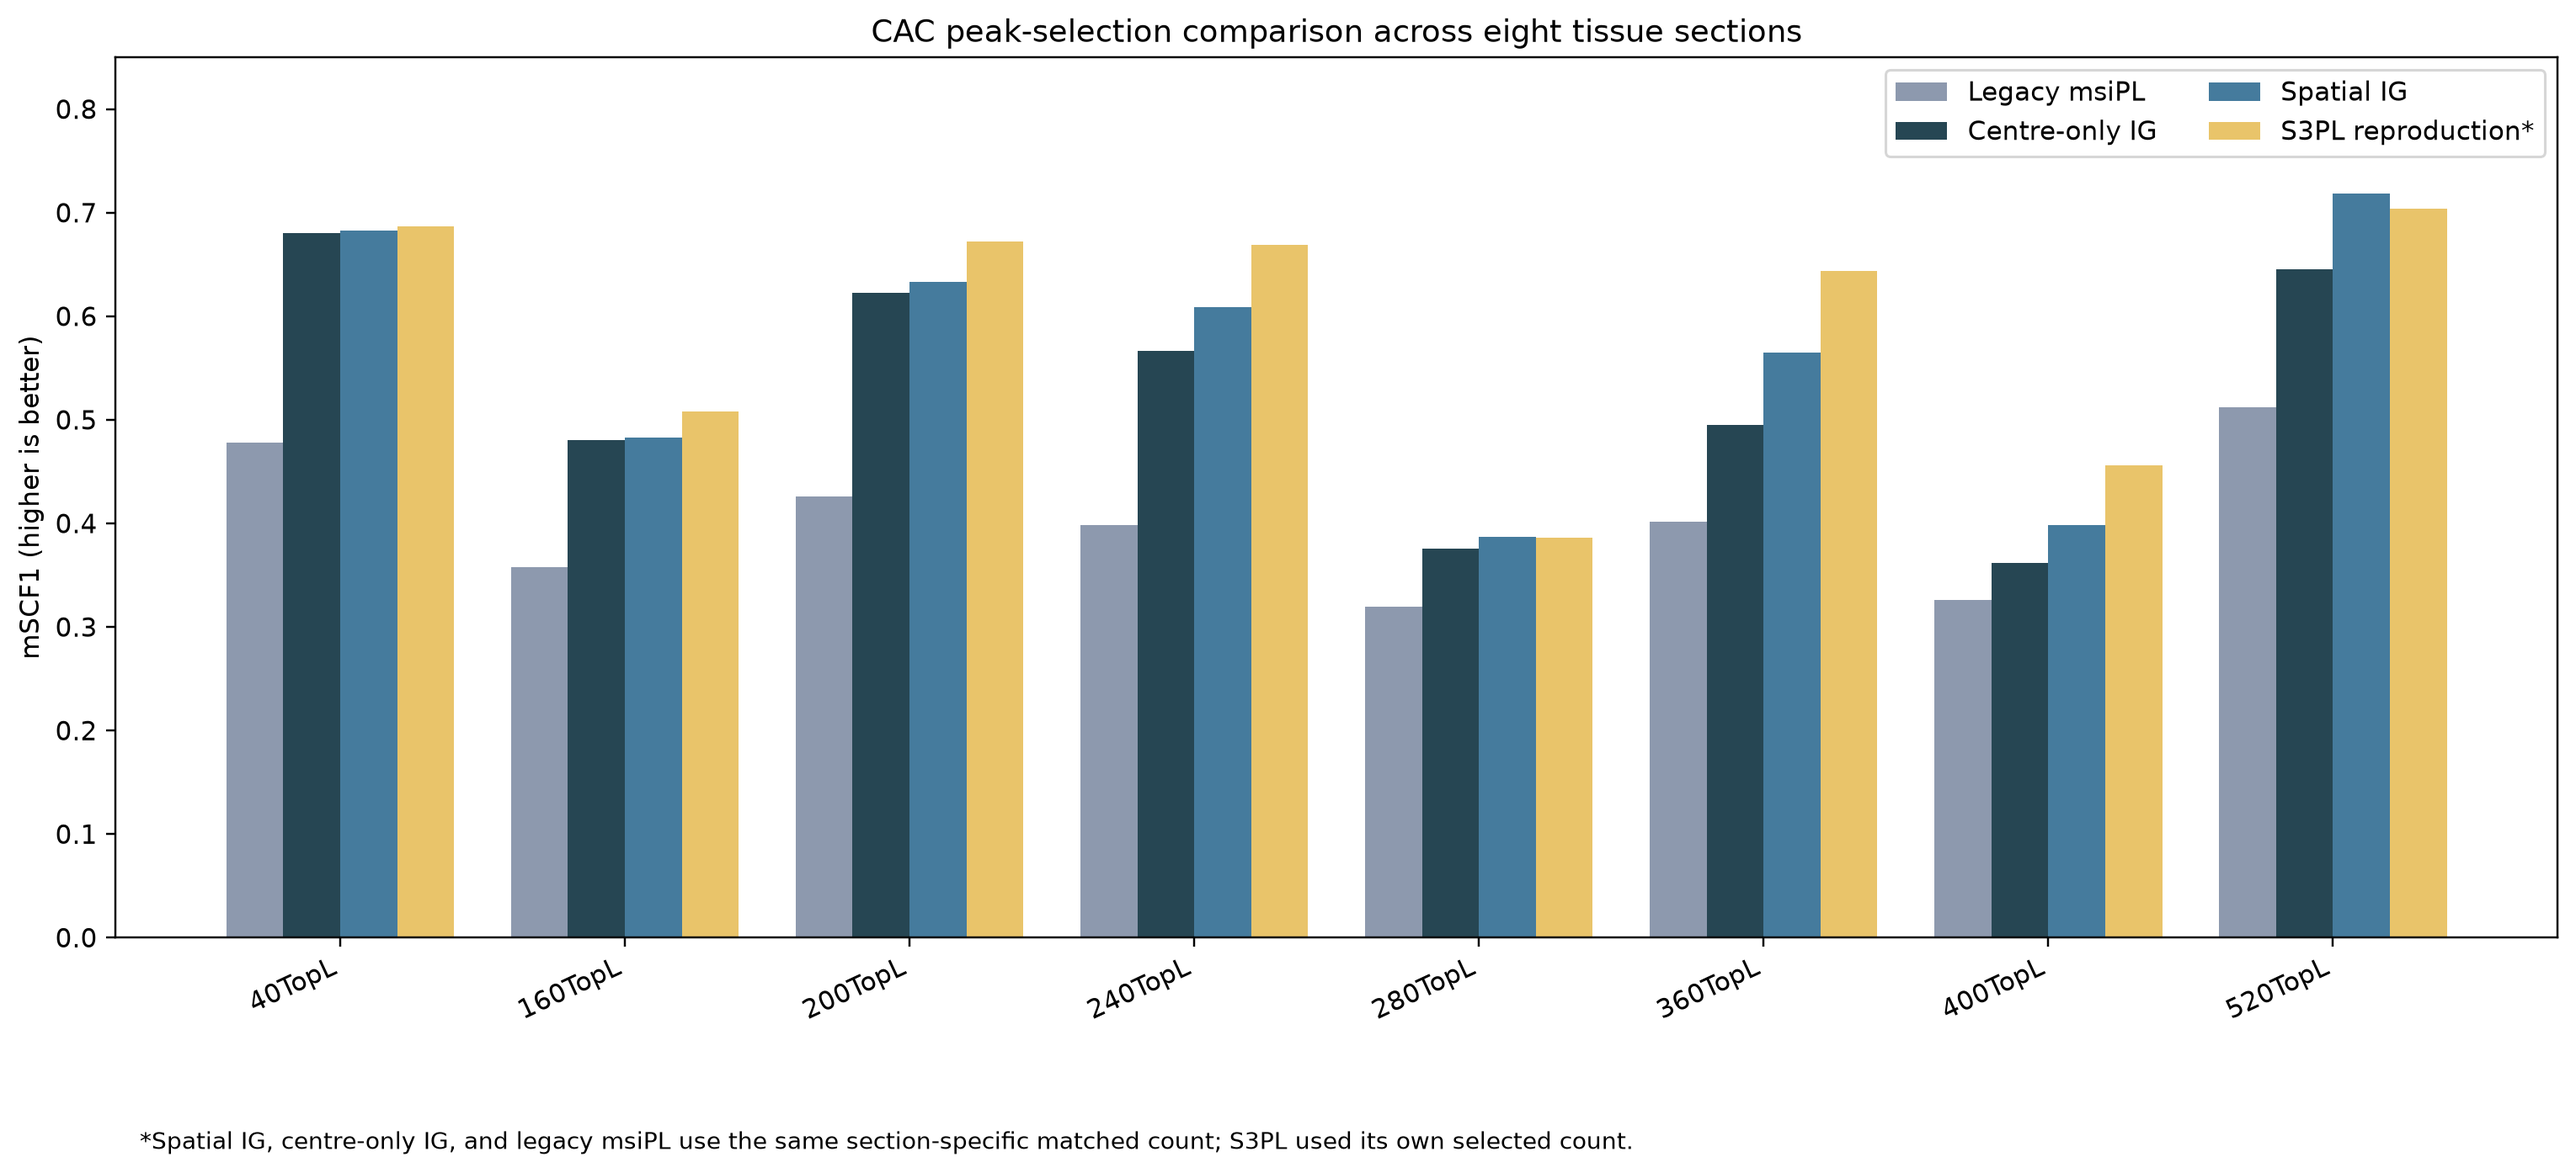
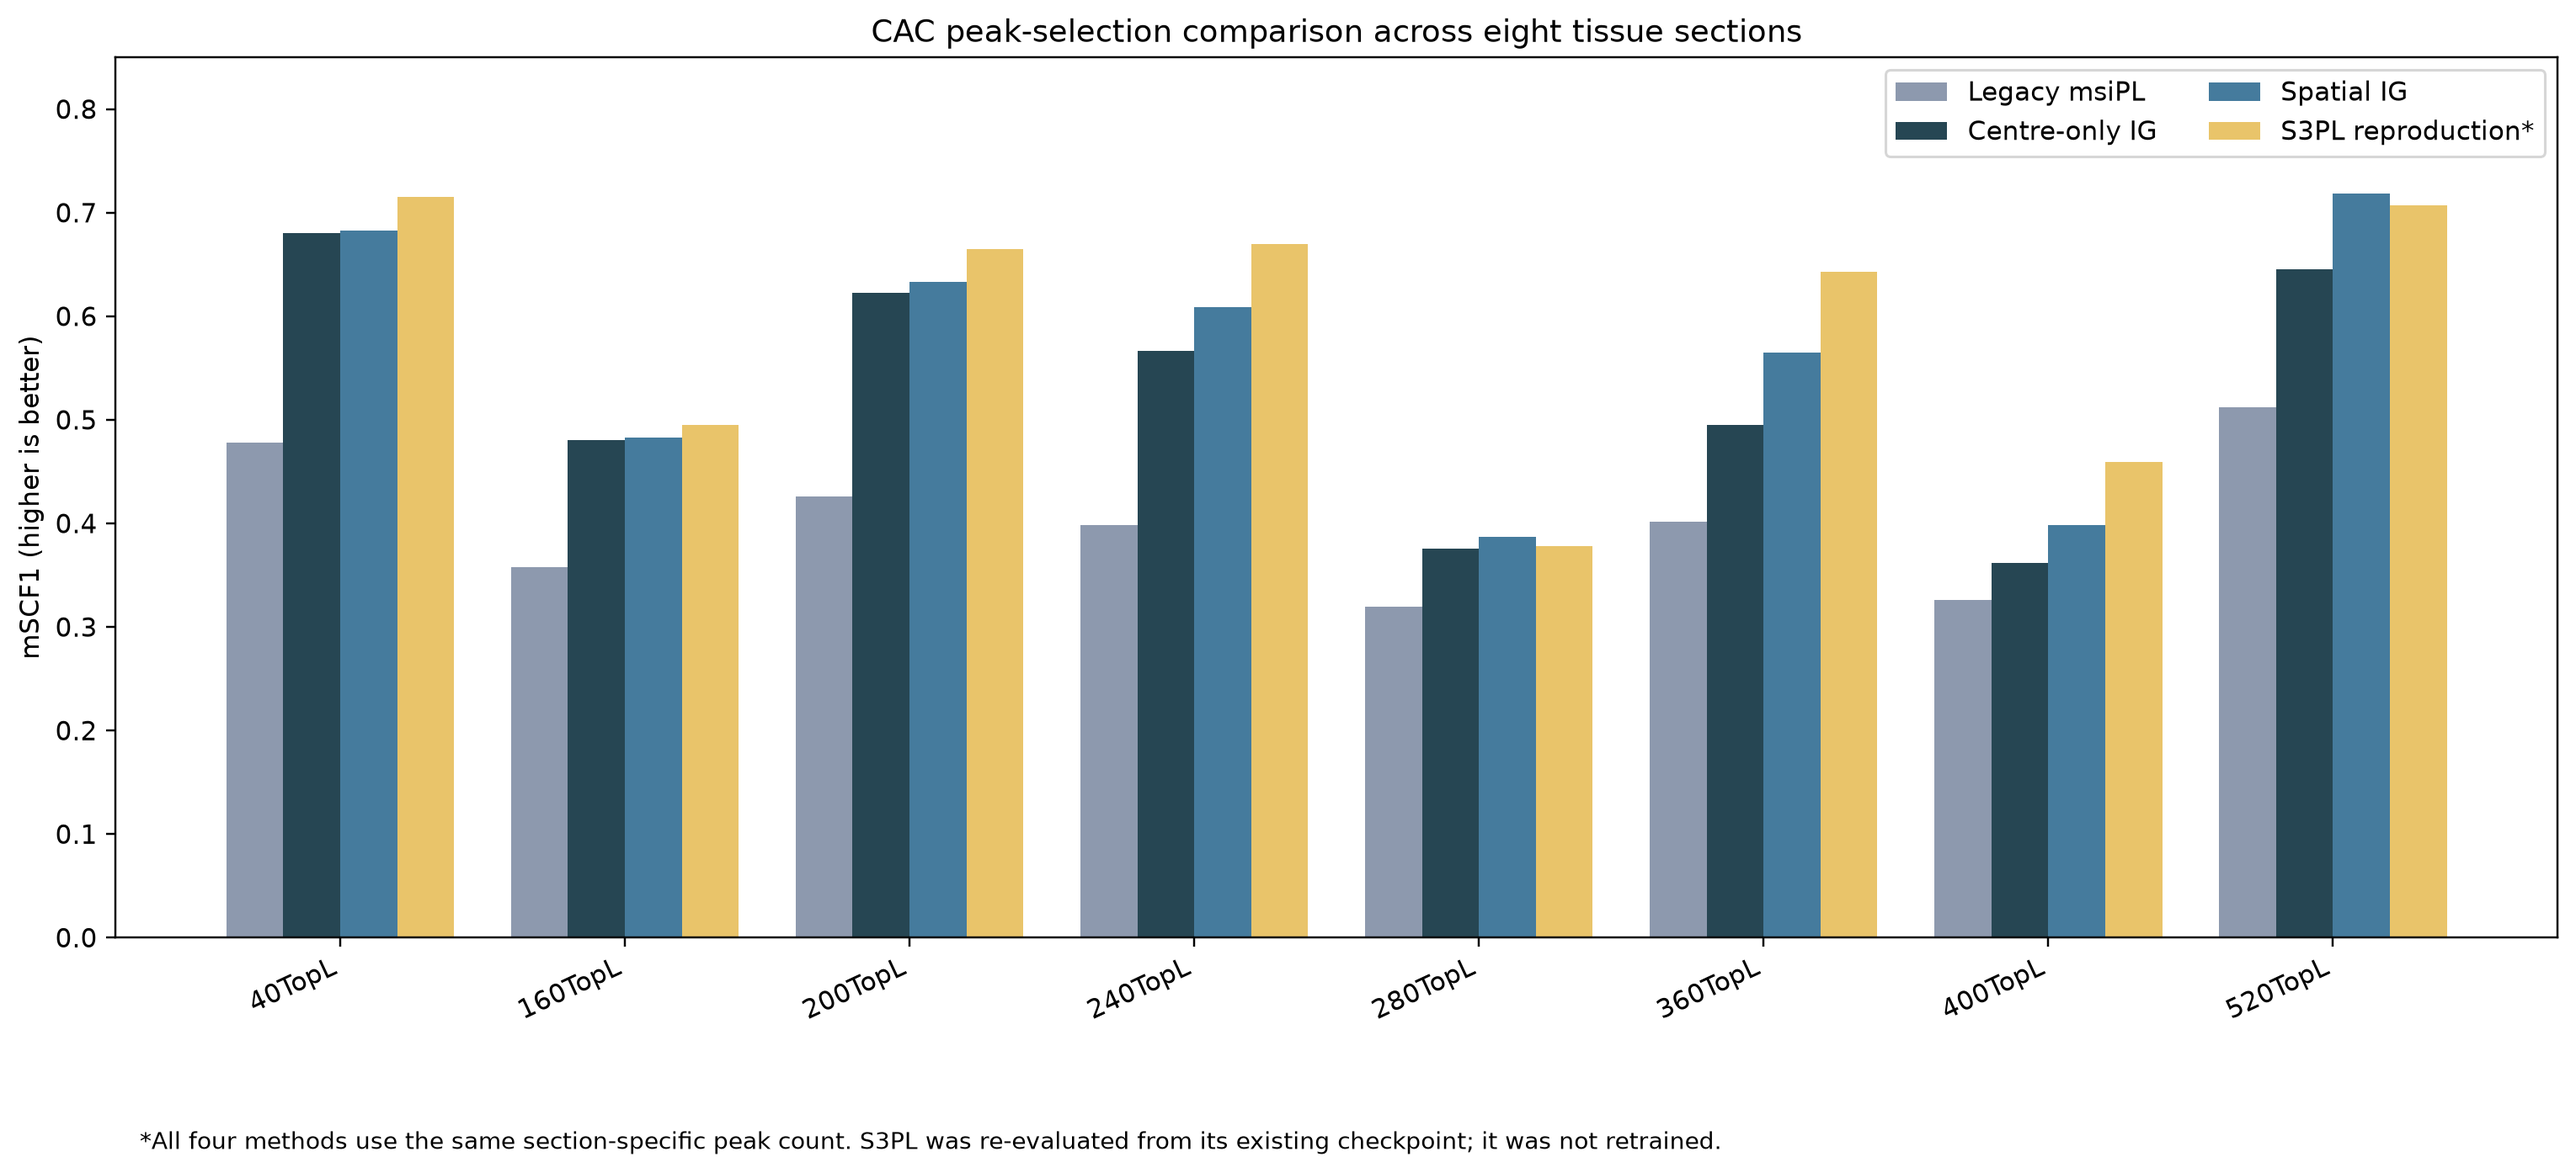
Update CAC validation results and summaries with matched peak counts and improved metrics

diff --git a/code/msi/results/publication/current_evidence/README.md b/code/msi/results/publication/current_evidence/README.md
@@ -1,8 +1,8 @@
 # Current publication results
 
 This package summarizes the completed seed-1 model campaign. Section-level
-variation is shown explicitly; training-seed stability remains a planned targeted
-analysis. All primary method comparisons below use matched section-specific peak
+variation is shown explicitly; targeted training-seed stability is reported in a
+separate artifact. All primary method comparisons below use matched section-specific peak
 budgets.
 
 ## Primary result
@@ -35,9 +35,10 @@ does not consistently improve GBM mSCF1, but improves all eight CAC sections.
 
 ## S3PL placement
 
-S3PL is retained as a contextual CAC benchmark, not included in the matched primary
-test. It used its own selected peak counts and a 10-epoch implementation protocol.
-Its mean CAC mSCF1 was 0.5908, versus 0.5595 for uniform-context IG.
+S3PL is retained as a separate CAC architecture benchmark. Its existing checkpoints
+were re-evaluated with the same section-specific peak counts as the primary methods;
+its training protocol remains the reproduced 10-epoch S3PL protocol.
+Its mean CAC mSCF1 was 0.5915, versus 0.5595 for uniform-context IG.
 
 ## Interpretation boundaries
 
@@ -45,8 +46,8 @@ Its mean CAC mSCF1 was 0.5908, versus 0.5595 for uniform-context IG.
   possible learned neighbourhood aggregators.
 - First-layer L2 is an intentionally simple weight-magnitude comparator, not a
   reimplementation of legacy LearnPeaks.
-- Full GBM and CAC validation currently uses one model-training seed. Attribution
-  sampling stability was tested separately; targeted model-seed repeats are pending.
+- Full GBM and CAC section-wide validation uses seed 1. Targeted GBM108-positive
+  training-seed repeats reached 100 epochs and are evaluated separately.
 - The eight sections within a collection are paired section-level units and are not
   asserted to be eight independent patients.
 
@@ -55,4 +56,4 @@ Its mean CAC mSCF1 was 0.5908, versus 0.5595 for uniform-context IG.
 1. `figure_1_primary_peak_quality.png` — matched primary comparison.
 2. `figure_2_context_effect_by_section.png` — section-level context contribution.
 3. `figure_3_explanation_ablation.png` — L2, legacy msiPL, and nonlinear IG.
-4. `figure_s1_s3pl_contextual_cac.png` — separate contextual S3PL comparison.
+4. `figure_s1_s3pl_contextual_cac.png` — matched-count S3PL architecture comparison.

diff --git a/code/msi/results/comparisons/spatial_msipl_cac_validation/summary.md b/code/msi/results/comparisons/spatial_msipl_cac_validation/summary.md
@@ -8,7 +8,7 @@ Peak selection used GMM Integrated Gradients with the same tuned legacy msiPL co
 - Spatial IG mean mSCF1: 0.5595
 - Centre-only IG mean mSCF1: 0.5285
 - Legacy msiPL mean mSCF1: 0.4024
-- S3PL reproduction mean mSCF1: 0.5908 (not peak-count matched)
+- S3PL reproduction mean mSCF1: 0.5915 (peak-count matched)
 - Spatial GMM mean balanced accuracy: 0.6690
 - Centre-only GMM mean balanced accuracy: 0.6845
 
@@ -16,7 +16,7 @@ Peak selection used GMM Integrated Gradients with the same tuned legacy msiPL co
 
 - spatial IG versus centre-only IG: mean difference +0.0310; wins 8/8; exact two-sided Wilcoxon p=0.007812.
 - spatial IG versus legacy msiPL: mean difference +0.1572; wins 8/8; exact two-sided Wilcoxon p=0.007812.
-- spatial IG versus S3PL reproduction: mean difference -0.0312; wins 2/8; exact two-sided Wilcoxon p=0.054688.
+- spatial IG versus S3PL reproduction: mean difference -0.0320; wins 2/8; exact two-sided Wilcoxon p=0.039062.
 - spatial versus centre-only GMM balanced accuracy: mean difference -0.0155; wins 2/8; exact two-sided Wilcoxon p=0.250000.
 - spatial versus centre-only reconstruction MSE: mean difference -0.0000; wins 4/8; exact two-sided Wilcoxon p=1.000000.
 - spatial versus centre-only IG faithfulness: mean difference +0.0405; wins 6/8; exact two-sided Wilcoxon p=0.078125.
@@ -26,4 +26,4 @@ Peak selection used GMM Integrated Gradients with the same tuned legacy msiPL co
 Spatial context consistently improves IG peak-selection mSCF1 over the matched centre-only control,
 but it does not consistently improve reconstruction or GMM agreement with expert classes.
 Both nonlinear IG methods outperform legacy msiPL. First-layer L2 remains an inadequate peak ranking.
-S3PL has the highest mean mSCF1, but its section-specific peak counts are not matched to the other methods.
+S3PL has the highest mean mSCF1 after using the same section-specific peak counts as the other methods.
